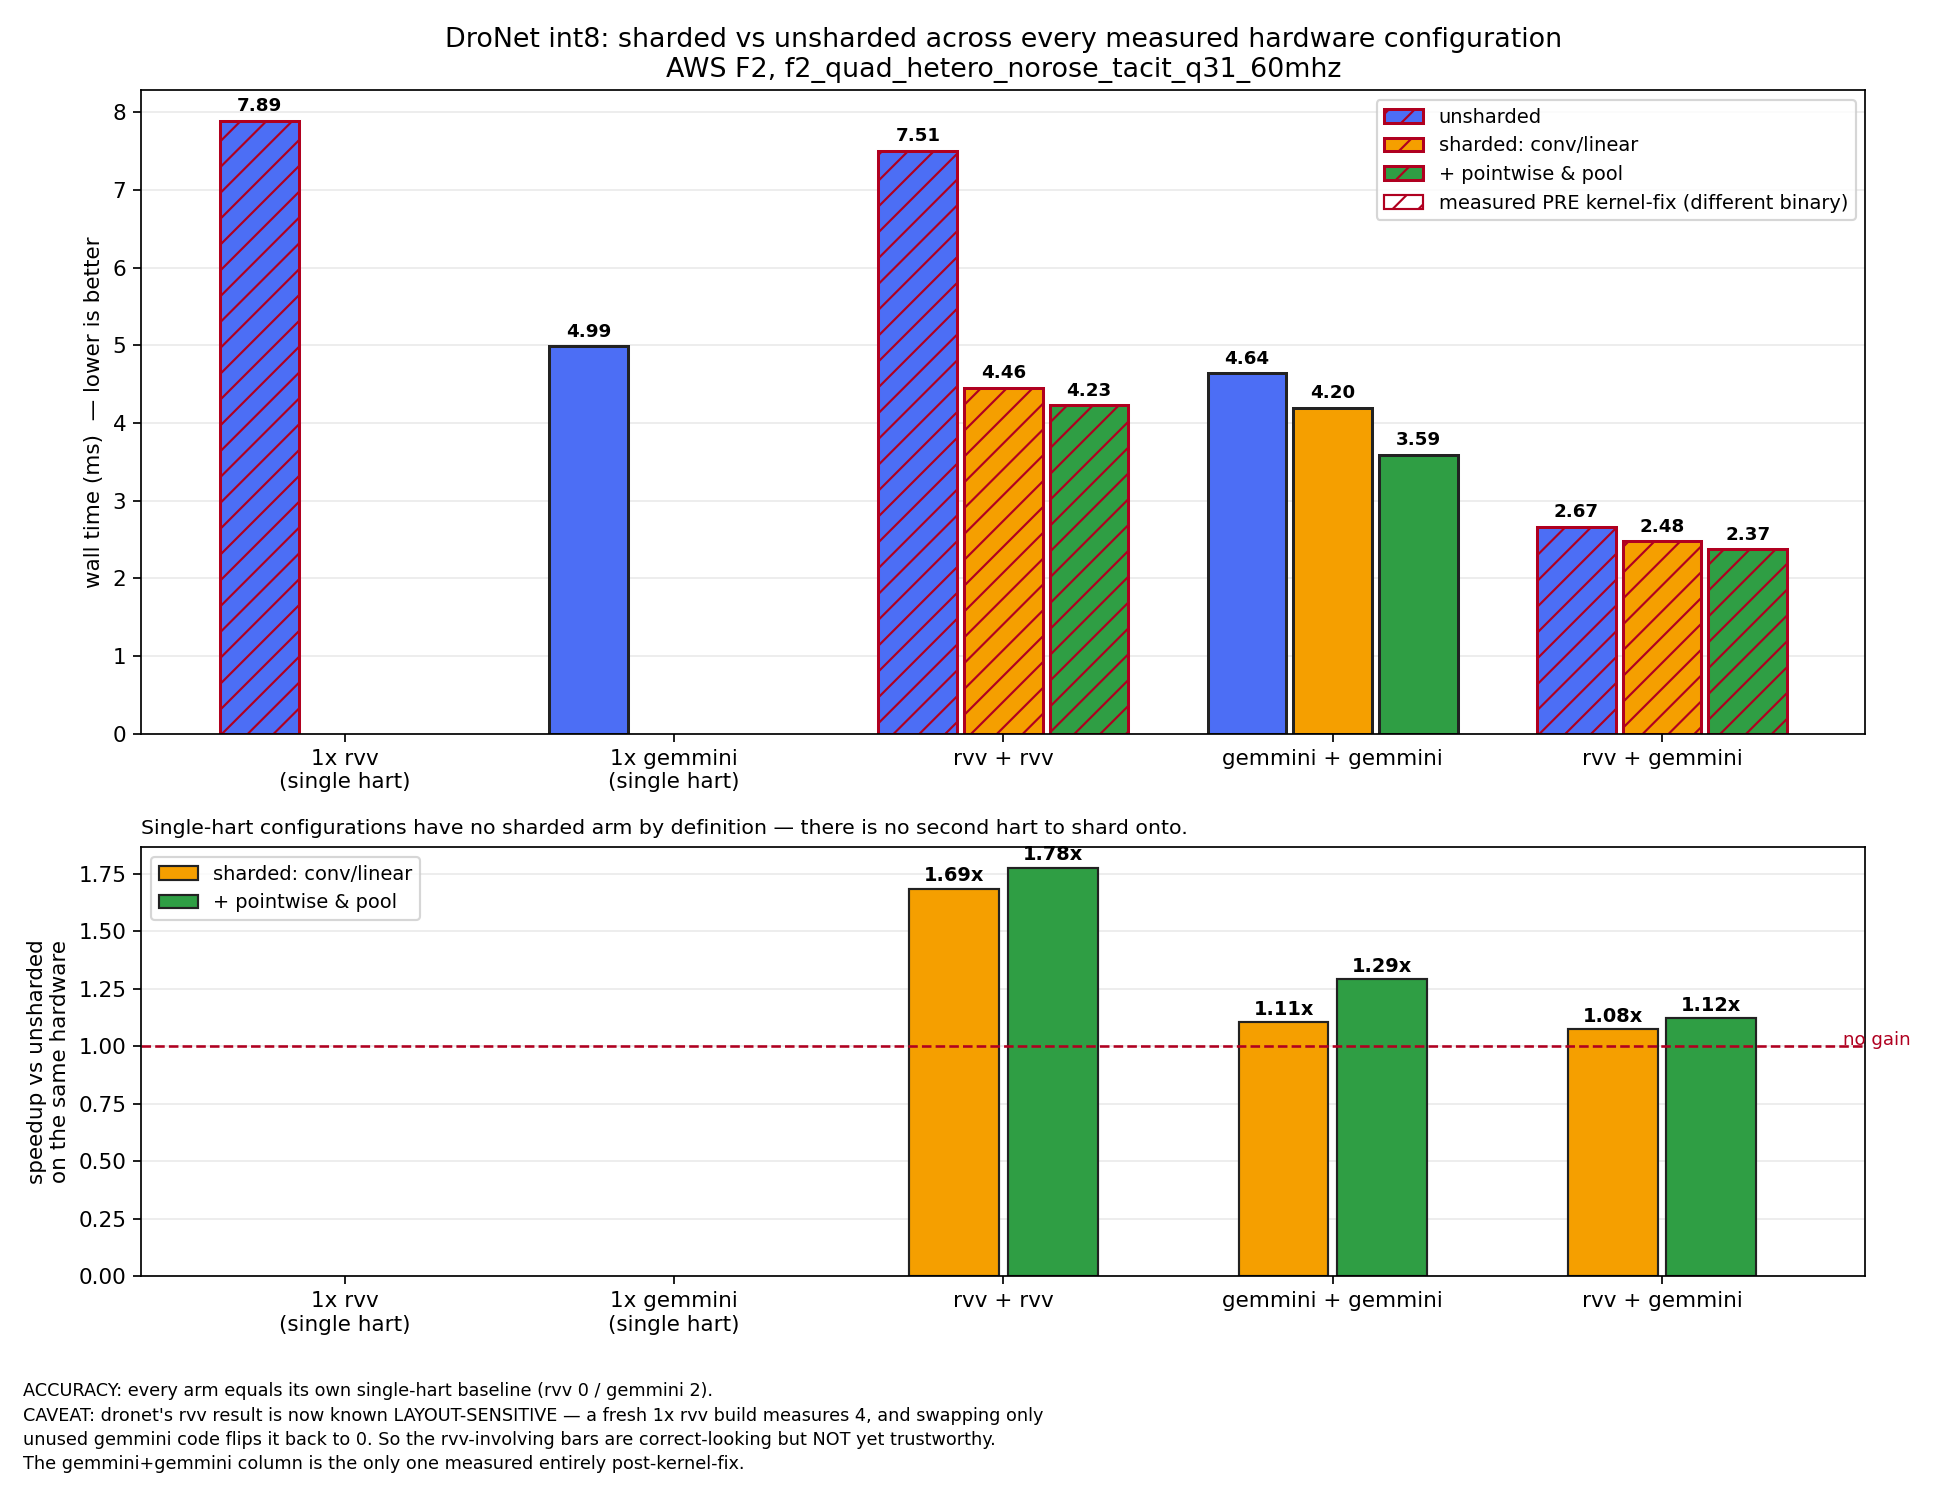
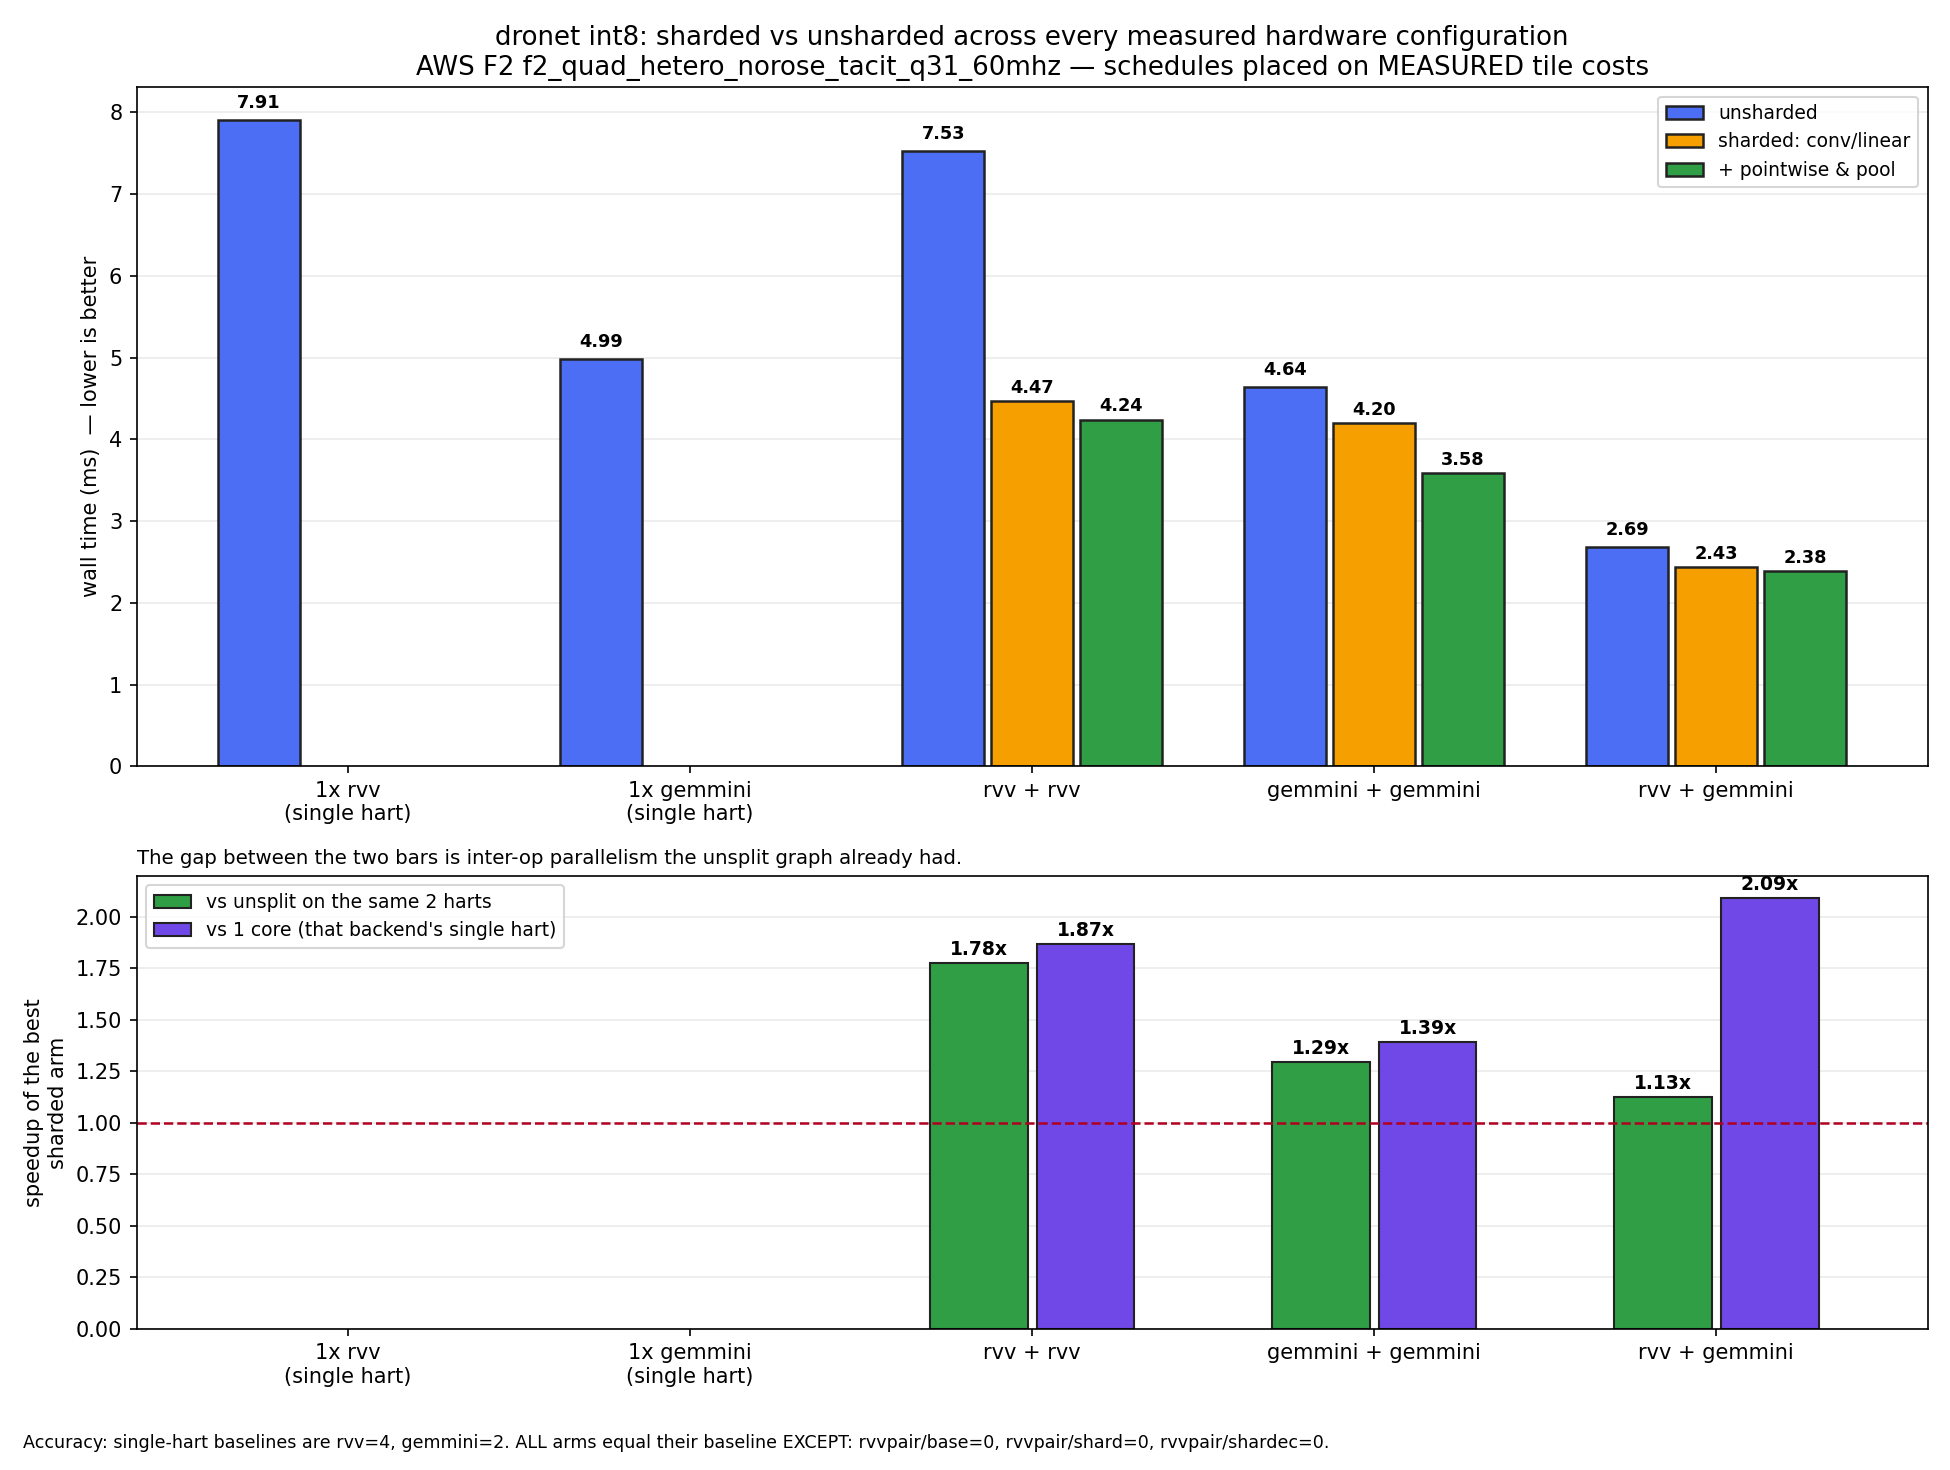
experiments: generalise the sharding plot to any network, and plot BOTH speedups
'vs unsplit' (same two harts) answers what sharding bought; 'vs 1 core'
answers what the second core bought. They diverge by however much inter-op
parallelism the unsplit graph already had -- DroNet's second rvv hart is ~95%
idle unsplit so the two nearly coincide, while yolov8n keeps its second hart
31% busy and 'vs unsplit' understates the two-core benefit.

The accuracy footnote now names the per-backend single-hart baseline and lists
any arm that DIFFERS from it, instead of asserting they all match -- yolov8n's
rvv-pair shardec reads err=1 against an rvv baseline of 0.

Claude-Session: https://claude.ai/code/session_016FZJBMj4iUznoDoS6GgxGm

diff --git a/experiments/shard_dim/scripts/plot_hw_sharding.py b/experiments/shard_dim/scripts/plot_hw_sharding.py
@@ -1,0 +1,135 @@
+#!/usr/bin/env python3
+"""<net> sharded vs unsharded across every hardware configuration measured.
+
+  plot_hw_sharding.py <net> [--out <png>]
+
+Reads the fq uartlogs directly and re-checks each one's
+`xpurt-runner: schedule=<tag>` line before using it -- fq copies results off the
+run host's sim_slot_*, whose contents survive between jobs, so a cell can
+silently collect a previous job's log.
+
+TWO SPEEDUPS ARE PLOTTED, because they answer different questions and the gap
+between them is itself a result:
+
+  vs unsplit  -- same two harts in both arms. "What did SHARDING buy me?"
+  vs 1 core   -- against the single-hart run. "What did the SECOND CORE buy me?"
+
+They diverge by however much inter-op parallelism the unsplit graph already
+had. DroNet is a near-serial chain, so its second rvv hart is ~95% idle when
+unsplit and the two framings nearly coincide; yolov8n keeps its second hart 31%
+busy unsplit, so its "vs unsplit" understates the total two-core benefit.
+"""
+import argparse, glob, os, re, datetime
+import matplotlib; matplotlib.use("Agg")
+import matplotlib.pyplot as plt
+
+ROOT = "/scratch/dima/rose-infra/RoSE/experiments"
+HW = [("serialE", "1x rvv\n(single hart)"), ("serialP", "1x gemmini\n(single hart)"),
+      ("rvvpair", "rvv + rvv"), ("gempair", "gemmini + gemmini"), ("hetero", "rvv + gemmini")]
+ARMS = [("base", "unsharded", "#4C6EF5"), ("shard", "sharded: conv/linear", "#F59F00"),
+        ("shardec", "+ pointwise & pool", "#2F9E44")]
+
+
+def cell(tag):
+    for root in (f"{ROOT}/sweep3net", f"{ROOT}/sweep3net_prekfix"):
+        for x in glob.glob(f"{root}/res_{tag}/**/uartlog", recursive=True) + [f"{root}/res_{tag}/uartlog"]:
+            if not os.path.exists(x):
+                continue
+            t = open(x, errors="ignore").read()
+            if not re.search(r"xpurt-runner: schedule=" + re.escape(tag) + r"\b", t):
+                continue
+            r = [l.split(",") for l in t.split("\n")
+                 if re.match(r"^\d+,", l) and len(l.split(",")) == 14]
+            if not r:
+                continue
+            iv = [(int(y[-2]), int(y[-1])) for y in r]
+            e = re.search(r"max_abs_err=([0-9.eE+-]+)", t)
+            return dict(ms=(max(b for _, b in iv) - min(a for a, _ in iv)) / 1000.0,
+                        err=(e.group(1) if e else "?"))
+    return None
+
+
+def main():
+    ap = argparse.ArgumentParser()
+    ap.add_argument("net"); ap.add_argument("--out", default=None)
+    a = ap.parse_args()
+    out = a.out or f"{ROOT}/sweep3net/plots/{a.net}_hw_sharding.png"
+    D = {(p, arm): cell(f"{a.net}_{p}_{arm}") for p, _ in HW for arm, _, _ in ARMS}
+    # single-hart reference: the faster of the two serial runs is NOT the point;
+    # each pair is compared against ITS OWN backend's single hart.
+    ref = {"rvvpair": D.get(("serialE", "base")), "gempair": D.get(("serialP", "base")),
+           "hetero": D.get(("serialP", "base"))}
+
+    fig, (ax, ax2) = plt.subplots(2, 1, figsize=(13, 9.8), gridspec_kw={"height_ratios": [3, 2]})
+    w = 0.26
+    for j, (arm, label, colour) in enumerate(ARMS):
+        xs, ys = [], []
+        for i, (p, _) in enumerate(HW):
+            c = D.get((p, arm))
+            if c:
+                xs.append(i + (j - 1) * w); ys.append(c["ms"])
+        if xs:
+            ax.bar(xs, ys, w * 0.92, label=label, color=colour, edgecolor="#222", linewidth=1.2)
+            for x, y in zip(xs, ys):
+                ax.text(x, y + max(ys) * 0.012, f"{y:.2f}", ha="center", va="bottom",
+                        fontsize=8.5, fontweight="bold")
+    ax.set_xticks(range(len(HW))); ax.set_xticklabels([l for _, l in HW])
+    ax.set_ylabel("wall time (ms)  — lower is better")
+    ax.set_title(f"{a.net} int8: sharded vs unsharded across every measured hardware configuration\n"
+                 f"AWS F2 f2_quad_hetero_norose_tacit_q31_60mhz — schedules placed on MEASURED tile costs",
+                 fontsize=12.5)
+    ax.grid(axis="y", alpha=0.25); ax.set_axisbelow(True); ax.legend(fontsize=9)
+
+    # ---- two speedups side by side -------------------------------------
+    series = [("vs unsplit on the same 2 harts", "#2F9E44", lambda p, c: D[(p, "base")]["ms"] / c["ms"]
+               if D.get((p, "base")) else None),
+              ("vs 1 core (that backend's single hart)", "#7048E8",
+               lambda p, c: ref[p]["ms"] / c["ms"] if ref.get(p) else None)]
+    for j, (label, colour, fn) in enumerate(series):
+        xs, ys = [], []
+        for i, (p, _) in enumerate(HW):
+            if p.startswith("serial"):
+                continue
+            c = D.get((p, "shardec")) or D.get((p, "shard"))
+            if not c:
+                continue
+            v = fn(p, c)
+            if v:
+                xs.append(i + (j - 0.5) * w * 1.2); ys.append(v)
+        if xs:
+            ax2.bar(xs, ys, w * 1.1, label=label, color=colour, edgecolor="#222", linewidth=1.0)
+            for x, y in zip(xs, ys):
+                ax2.text(x, y + 0.02, f"{y:.2f}x", ha="center", va="bottom",
+                         fontsize=9, fontweight="bold")
+    ax2.axhline(1.0, color="#B00020", lw=1.2, ls="--")
+    ax2.set_xticks(range(len(HW))); ax2.set_xticklabels([l for _, l in HW])
+    ax2.set_ylabel("speedup of the best\nsharded arm")
+    ax2.set_xlim(ax.get_xlim()); ax2.grid(axis="y", alpha=0.25); ax2.set_axisbelow(True)
+    ax2.legend(fontsize=9, loc="upper left")
+    ax2.set_title("The gap between the two bars is inter-op parallelism the unsplit graph already had.",
+                  fontsize=9.5, loc="left")
+
+    # Name the single-hart baseline per backend and flag ANY arm that differs
+    # from it. Saying "each equals its baseline" when one does not is exactly
+    # the kind of caption that makes a figure untrustworthy.
+    baseE = (D.get(("serialE", "base")) or {}).get("err")
+    baseP = (D.get(("serialP", "base")) or {}).get("err")
+    expect = {"rvvpair": baseE, "gempair": baseP, "hetero": baseP,
+              "serialE": baseE, "serialP": baseP}
+    odd = [f"{p}/{arm}={c['err']}" for (p, arm), c in sorted(D.items())
+           if c and expect.get(p) is not None and c["err"] != expect[p]]
+    line = (f"Accuracy: single-hart baselines are rvv={baseE}, gemmini={baseP}. "
+            + ("Every plotted arm equals its own backend's baseline."
+               if not odd else
+               "ALL arms equal their baseline EXCEPT: " + ", ".join(odd) + "."))
+    fig.text(0.012, 0.012, line, fontsize=8.4, va="bottom")
+    fig.tight_layout(rect=[0, 0.04, 1, 1])
+    os.makedirs(os.path.dirname(out), exist_ok=True)
+    fig.savefig(out, dpi=150)
+    print(f"wrote {out}")
+    for (p, arm), c in sorted(D.items()):
+        if c:
+            print(f"    {p:<9}{arm:<9}{c['ms']:9.3f} ms  err={c['err']}")
+
+
+main()
